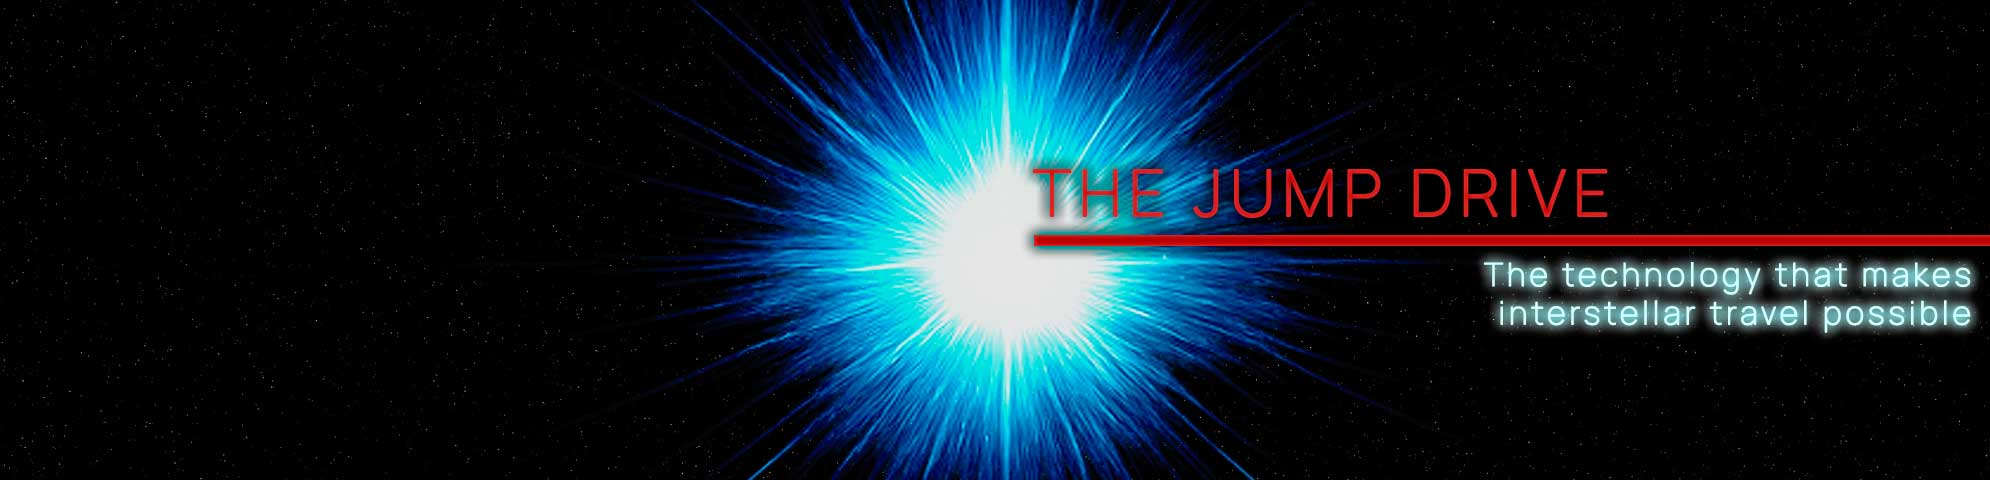
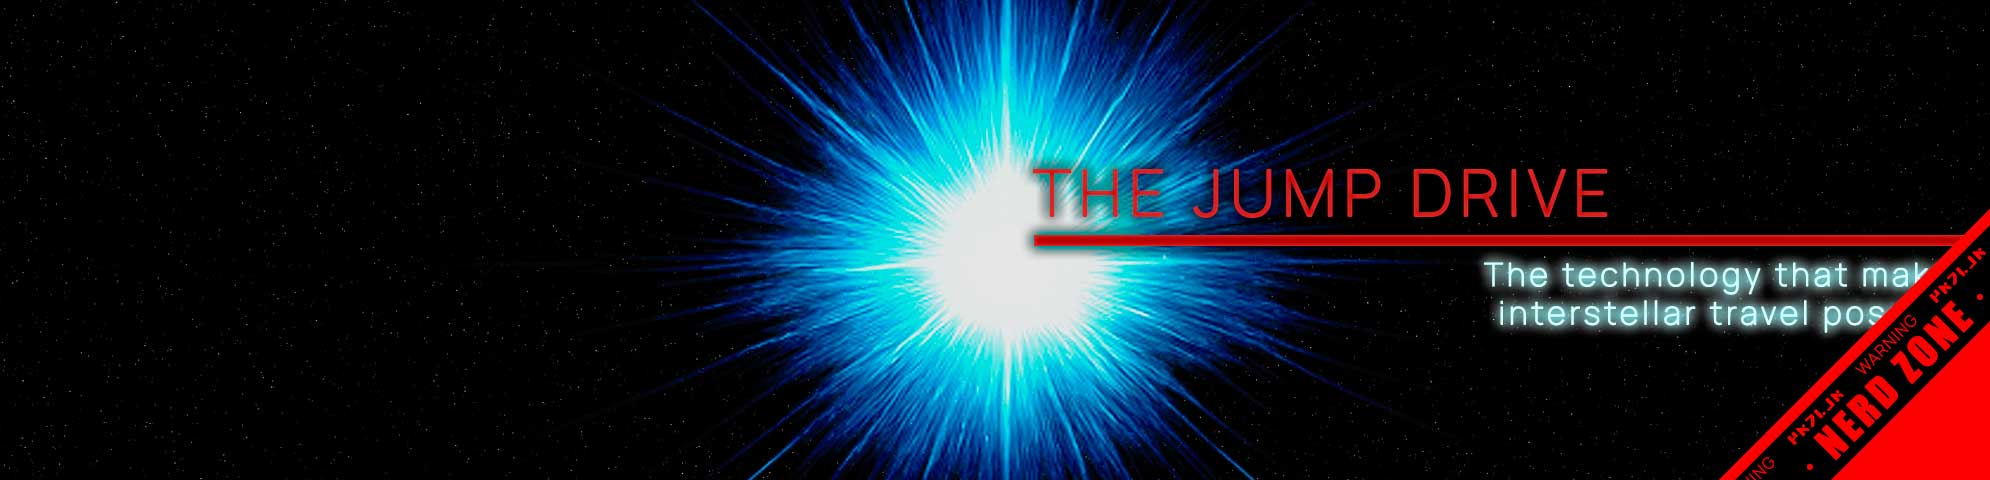
GITBOOK-151: No subject

Changed region(s): [[0.8412, 0.4375, 1.0, 1.0]]

diff --git a/whitepaper/foundations/interstellar-community/tech-levels/jump-drive.md b/whitepaper/foundations/interstellar-community/tech-levels/jump-drive.md
@@ -2,7 +2,7 @@
 description: >-
   The Jump Drive is a technology that allows specialized vessels to create
   directed hyperspace.
-cover: ../../../.gitbook/assets/tcw-wip-nerd.jpg
+cover: ../../../.gitbook/assets/tcw-jump.jpg
 coverY: 0
 layout:
   width: default
@@ -10,9 +10,9 @@ layout:
     visible: true
     size: full
   title:
-    visible: true
+    visible: false
   description:
-    visible: true
+    visible: false
   tableOfContents:
     visible: true
   outline:
